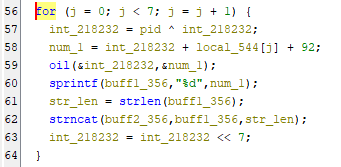
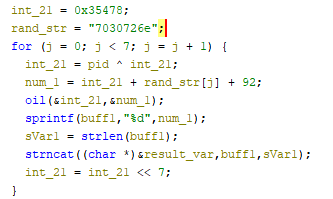
Assignment 6 Update

diff --git a/Reports/Assignment6.md b/Reports/Assignment6.md
@@ -135,42 +135,60 @@ STRING[bVar2] must equal argv[2] + 1
 
 
 ## Crackme 5 Solutions():
+To solve this crackme, you need to patch the given `crackme04_32bit` Linux executable in order to first disable the self-destruction properties of the program that are activated if the program is not run at 13:37 or if the PID is not 1337. After patching the program, you need to disassemble it in order to pull out the correct serial-number generation algorithm (based on the PID). After you have this algorithm you must use it to generate the correct serial number, and input it into the program (that no longer self-destructs on run) to solve the crackme.
 
+My solution is the serial number: `217552398261569-545326772-1082328767-1082328760-1082328765-1082328753`. The program that I used to generate this can be found in the section below with additional context.
 
 
 ### How I did it using Ghidra:
 1. I opened the crackme in Ghidra.
 2. I found the `main` function where I noticed that the program checks first that the time must be `"13:37"` and also that the PID of the program is `1337`. If either of these conditions are not met, the program immediately dies in the function `theOtherEnd` (which also deletes the program itself).
 
-In order to prevent the program from deleting itself, I patched the assembly such that the conditions are different. I did the patching in Ghidra, where I right-clicked the assembly line I wanted to change, selected "Patch Assembly", and made the changes. For the time compare, I changed the instruction `TEST EAX, EAX` to `CMP EAX, EAX`. This means that as long as the time IS NOT 13:37, the program should run without deleting tiself. For the PID comparison, I first changed the assembly line `MOV dword ptr [ESP + pid_var], EAX` to `MOV dword ptr [ESP + pid_var], 1337`. This means that the PID variable always holds the correct PID value (`1337`). In this scenario, the function `getCurTime` is still called, but its output is disregarded completely.
+    In order to prevent the program from deleting itself, I patched the assembly such that the conditions are different. I did the patching in Ghidra, where I right-clicked the assembly line I wanted to change, selected "Patch Assembly", and made the changes. Then, I selected `File->Export Program->Original File` and got a new and patched file to run. 
 
-3. I then noticed a for loop (seen below) which performed some XORing and concatenation 7 times. This loop includes a function called `oil`, which similarly does some XORing and ORing. That `buff2_356` character buffer is what will be looked at towards the end to determine if we have the correct serial.
+    Here are the changes I actually made: For the time compare, I changed the instruction `TEST EAX, EAX` to `CMP EAX, EAX`. This means that as long as the time IS NOT 13:37, the program should run without deleting itself. 
+    
+    For the PID comparison, I first changed the assembly line `CALL <EXTERNAL>::getpid` and it's following `MOV dword ptr [ESP + pid_var], EAX` line, to `MOV dword ptr [ESP + pid_var], 1337`. After this change, there was a 1-byte gap in the assembly which would crash the program if not fixed. In order to fix this program, I patched that 1-byte gap with the `NOP` instruction. This stands for "No Operation", and as such, does nothing in the program, but its presence fixed the crash of the program. My changes mean that the PID variable always holds the correct PID value (`1337`), and the `getpid` function never gets called in the first place.
+
+3. I then noticed a for loop (seen below) which performed some XORing and concatenation 7 times. This loop includes a function called `oil`, which similarly does some more XORing and ORing. That `result_var` variable is what will be looked at towards the end to determine if we have the correct serial.
+
+
 ![Crackme5 For-Loop](./src/6-5-forloop.png)
 
-4. Instead of solving this by hand, I created the following Python program to solve this for loop for me:
-```python
-#! /usr/bin/python3
+4. Instead of solving this by hand, I created the following C program to solve this for-loop for me. A surprising challenge was attempting to intrepret what I have labeled `result_var`, as Ghidra defines it as an `undefined4`, but at the same time seems to cast it as a `char *`, but also set it to `0` at some point. I knew that the pointer itself could not be `0`, so after a while I settled on defining `result_var` as a buffer-type variable, whose first character is a NULL byte -- which ended up working.
+```C
+#include <stdio.h>
+#include <string.h>
 
-def oil(int_21, num_1):
-    num_1 = num_1 ^ 4
-    int_21 = int_21 | 0x2e39f3
-    return int_21, num_1
+void oil(int* num1, int* num2){
+	*num2 = *num2 ^ 4;
+	*num1 = *num1 | 0x2e39f3;
+	return;
+} 
 
-int_21 = 218232
-rand_str = "7030726e"
-pid = 1337
+int main(){
+  int num_1;
+  int sVar1;
+	int int_21 = 218232;
+	char *rand_str = "7030726e";
+	int pid = 1337;
+	char buff1[356];
 
-buff1 = ""
-buff2 = ""
+	char result_var[100];
+	result_var[0] = 0;
 
-for j in range(7):
-    int_21 = pid ^ int_21
-    num_1 = int_21 + ord(rand_str[j]) + 92;
-    int_21, num_1 = oil(int_21, num_1)
-    buff1 = str(num_1)
-    buff2 += buff1
-    int_21 = int_21 << 7
-
-print(buff2)
-
+  for (int j = 0; j < 7; j = j + 1) {
+      int_21 = pid ^ int_21;
+      num_1 = int_21 + rand_str[j] + 92;
+      oil(&int_21,&num_1);
+      sprintf(buff1,"%d",num_1);
+      sVar1 = strlen(buff1);
+      strncat(result_var,buff1,sVar1);
+      int_21 = int_21 << 7;
+  }
+	printf("%s\n", result_var);
+}
 ```
+This program ended by printing out the string `217552398261569-545326772-1082328767-1082328760-1082328765-1082328753`. So for the situation where the PID is `1337` (either naturally, or artifically as I have it), this is the correct serial number that solves the crackme.
+
+5. Finally, I noticed in the main function that after the program prompts the user to enter the serial number, the program checks to see if the input matches the output of the for-loop operations, which is the string above. After entering the above string at the prompt, I received a message saying `YOU WIN!`, signifying that this was a correct answer.
